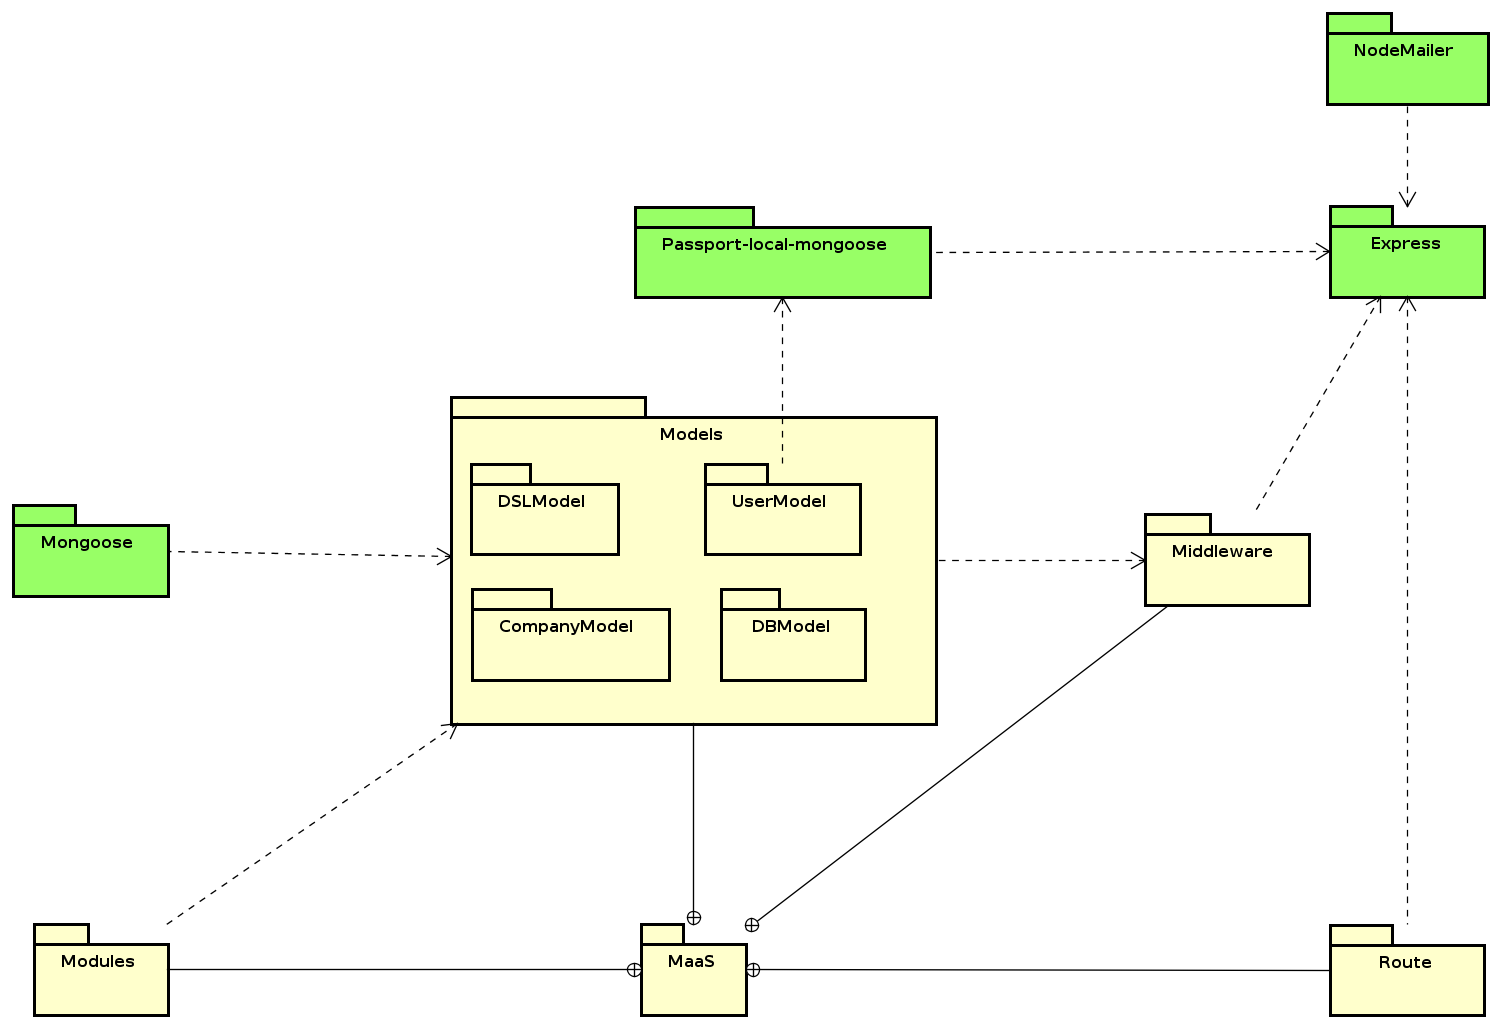
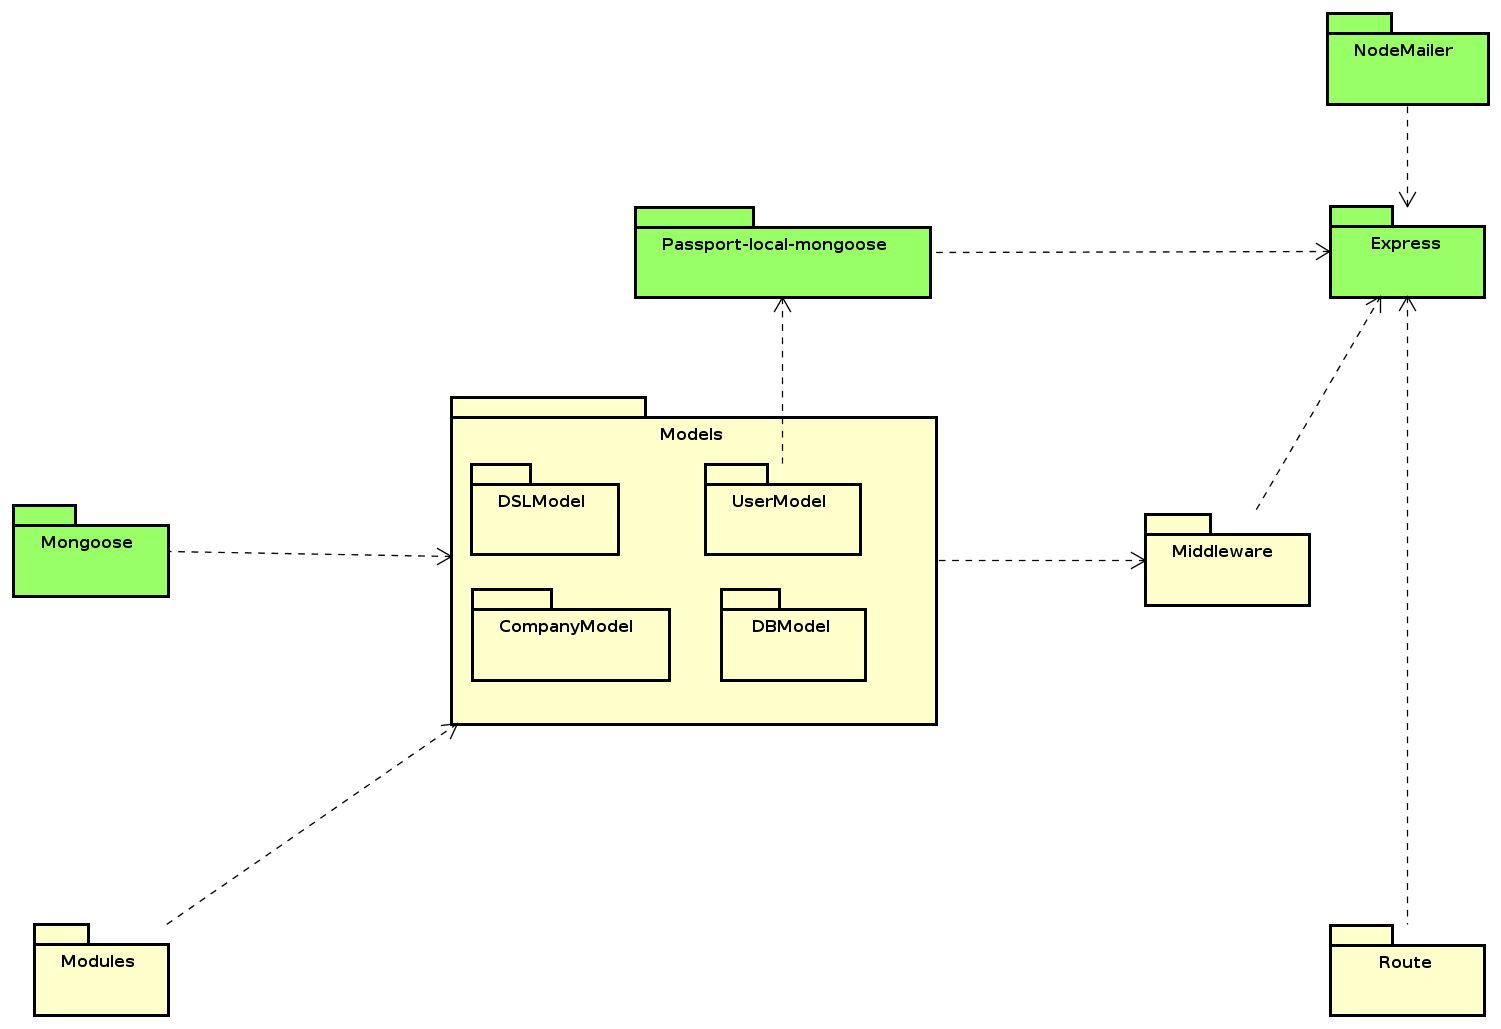
Correct some typos

Changed region(s): [[0.3984, 0.8707, 0.521, 0.9951]]

diff --git a/official/SpecificaTecnica/res/sections/backend.tex b/official/SpecificaTecnica/res/sections/backend.tex
@@ -1,58 +1,46 @@
 \section{Back end}
 \subsection{Descrizione generale}
 \subsubsection{Comunicazione tra client e server}
-Per la creazione del back end di MaaS si è deciso di utilizzare Node.js e, in particolare, il framework ExpressJS, che permette la creazione semplificata di webserver al fine di creare un set di API. Il lato back end sarà quindi costituito da un insieme di API protette da strati diversi di sicurezza. \\
-Ciascuna API del webserver fornirà una risposta in formato JSON per permettere l'utilizzo delle informazioni, secondo il seguente formato: \\
-\begin{verbatim}
-{
-    "data":         [Dati restituiti dal webserver],
-    "structure":    [Informazioni sui dati contenuti in 'data', utili al fine di
-                     generare il codice HTML per mostrarli]
-}
-\end{verbatim}
-Allo stesso modo fornirà anche gli eventuali messaggi di errore generati nel corpo dei metodi del server. Tali messaggi di errore saranno così composti: 
+Per la creazione del back end di MaaS si è deciso di utilizzare Node.js e, in particolare, il framework ExpressJS, che permette la creazione semplificata di server REST. Il lato back end sarà quindi costituito da un insieme di API protette da strati diversi di sicurezza. \\
+Ciascuna API del webserver fornirà una risposta in formato JSON per permettere la fruizione delle informazioni. Fornirà nello stesso formato anche gli eventuali messaggi di errore generati nel corpo dei metodi del server. Tali messaggi di errore saranno così composti: 
 \begin{verbatim}
 {
     "code":     [Codice definito nel protocollo HTTP, che identifica univocamente
                  la tipologia del problema]
     "message":  [Messaggio che definisce in dettaglio la tipologia dell'errore]
-    {"data"}:   [Opzionale, trasporta i dati in cui si è verificato l'errore]
+    ["data":   [Opzionale, trasporta i dati in cui si è verificato l'errore]]
 }
 \end{verbatim}
 I codici di errore saranno del tipo 4xx (client error, la richiesta è sintatticamente scorretta o non può essere soddisfatta) o 5xx (server error, il server ha fallito nel soddisfare una richiesta apparentemente valida).
 \subsubsection{Sicurezza}
 Gli accessi alle API avranno 2 livelli di sicurezza. \\
-Il primo livello è rappresentato dall'autenticazione: un utente non autenticato riceverà un errore se richiede una API protetta. Verrà implementato con l'utilizzo di Passport, un middleware per ExpressJS che permette l'autenticazione di utenti nel sistema. In particolare verrà utilizzata la strategia passport-local per l'accesso al server, cioè le credenziali dell'utente risiederanno nel database locale. \\
+Il primo livello è rappresentato dall'autenticazione: un utente non autenticato riceverà un errore se richiede una API protetta. Verrà implementato con l'utilizzo di PassportJS, un middleware per ExpressJS che permette l'autenticazione di utenti nel sistema. In particolare verrà utilizzata la strategia passport-local per l'accesso al server, cioè le credenziali dell'utente risiederanno nel database locale. \\
 Il secondo livello è definito in base al ruolo di appartenenza di un utente. Si occuperà di controllare i permessi assegnati ad un utente autenticato e di verificare la possibilità che possa o meno interagire con la risorsa richiesta. \\
 I ruoli utente ammessi nell'applicazione sono: 
 \begin{itemize}
 \item \textbf{GUEST};
 \item \textbf{MEMBER};
 \item \textbf{ADMIN};
-\item \textbf{OWNER}.
+\item \textbf{OWNER};
+\item \textbf{SUPERADMIN}.
 \end{itemize}
+Per il ruolo di SUPERADMIN è abilititato un set di API per la gestione dell'intera applicazione. Tali API non sono accessibili agli utenti con altri ruoli.
 \subsection{Package e classi}
 \begin{figure}[h]
 \centering
 \includegraphics[width=0.8\textwidth]{res/sections/package.png}
 \caption{Diagramma dei package per il backend}
 \end{figure}
-\subsubsection{MaaS}
-\paragraph{Descrizione}
-Questo è il package principale dell'applicazione, e comprende tutta la parte di back end.
-\paragraph{Package contenuti}
-\begin{itemize}
-\item Middleware;
-\item Models;
-\item Modules;
-\item Route.
-\end{itemize}
-
 \subsubsection{Middleware}
 \paragraph{Descrizione}
-In questo package sono contenute le classi che costituiscono gli handler della catena di chiamate a cui viene passata la responsabilità di gestire una richiesta.
-\paragraph{Classi contenute}
-%todo
+In questo package è contenuto il modulo che verifica se il ruolo dell'utente gli permette di eseguire l'operazione richiesta.
+\paragraph{Moduli contenute}
+\subparagraph{LevelChecker}
+\begin{description}
+\item[Descrizione] \hfill \\
+Questo è il modulo che controlla se il ruolo dell'utente gli permette di eseguire l'operazione richiesta.
+\item[Utilizzo] \hfill \\
+Viene utilizzato per implementare il secondo livello di sicurezza dell'applicazione. Ad ogni richiesta il cui esito varia in base al ruolo
 
 \subsubsection{Models}
 %todo immagine interazioni tra i modelli
